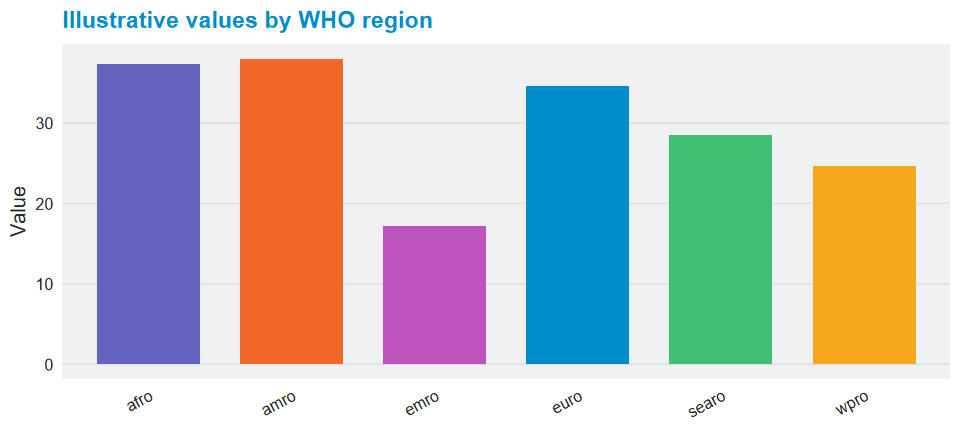
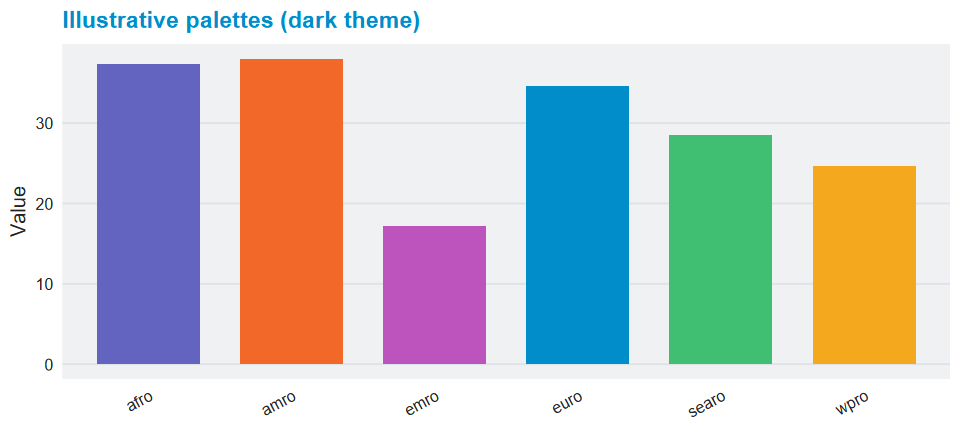
Re-knit README (README.Rmd render).
Made-with: Cursor

Changed region(s): [[0.1875, 0.0, 0.4688, 0.0903]]

diff --git a/README.md b/README.md
@@ -80,12 +80,8 @@ variant where available. The available palettes are displayed below.
 
 ## Example column chart
 
-The figures below show simple column charts of random values by WHO
-region: **`pal_background()`** for the plot and panel fills,
-**`pal_foreground()`** for axis titles and grid lines, **`pal_text()`**
-for axis tick labels, **`pal_brand()`** for the title, and
-**`pal_region()`** for bar fills. One figure uses **`theme = "dark"`**,
-the other uses **`theme = "light"`**.
+The figures below give an example of the color palettes using the light
+and dark themes.
 
 ![](man/figures/README-example-column-dark-1.png)<!-- -->
 